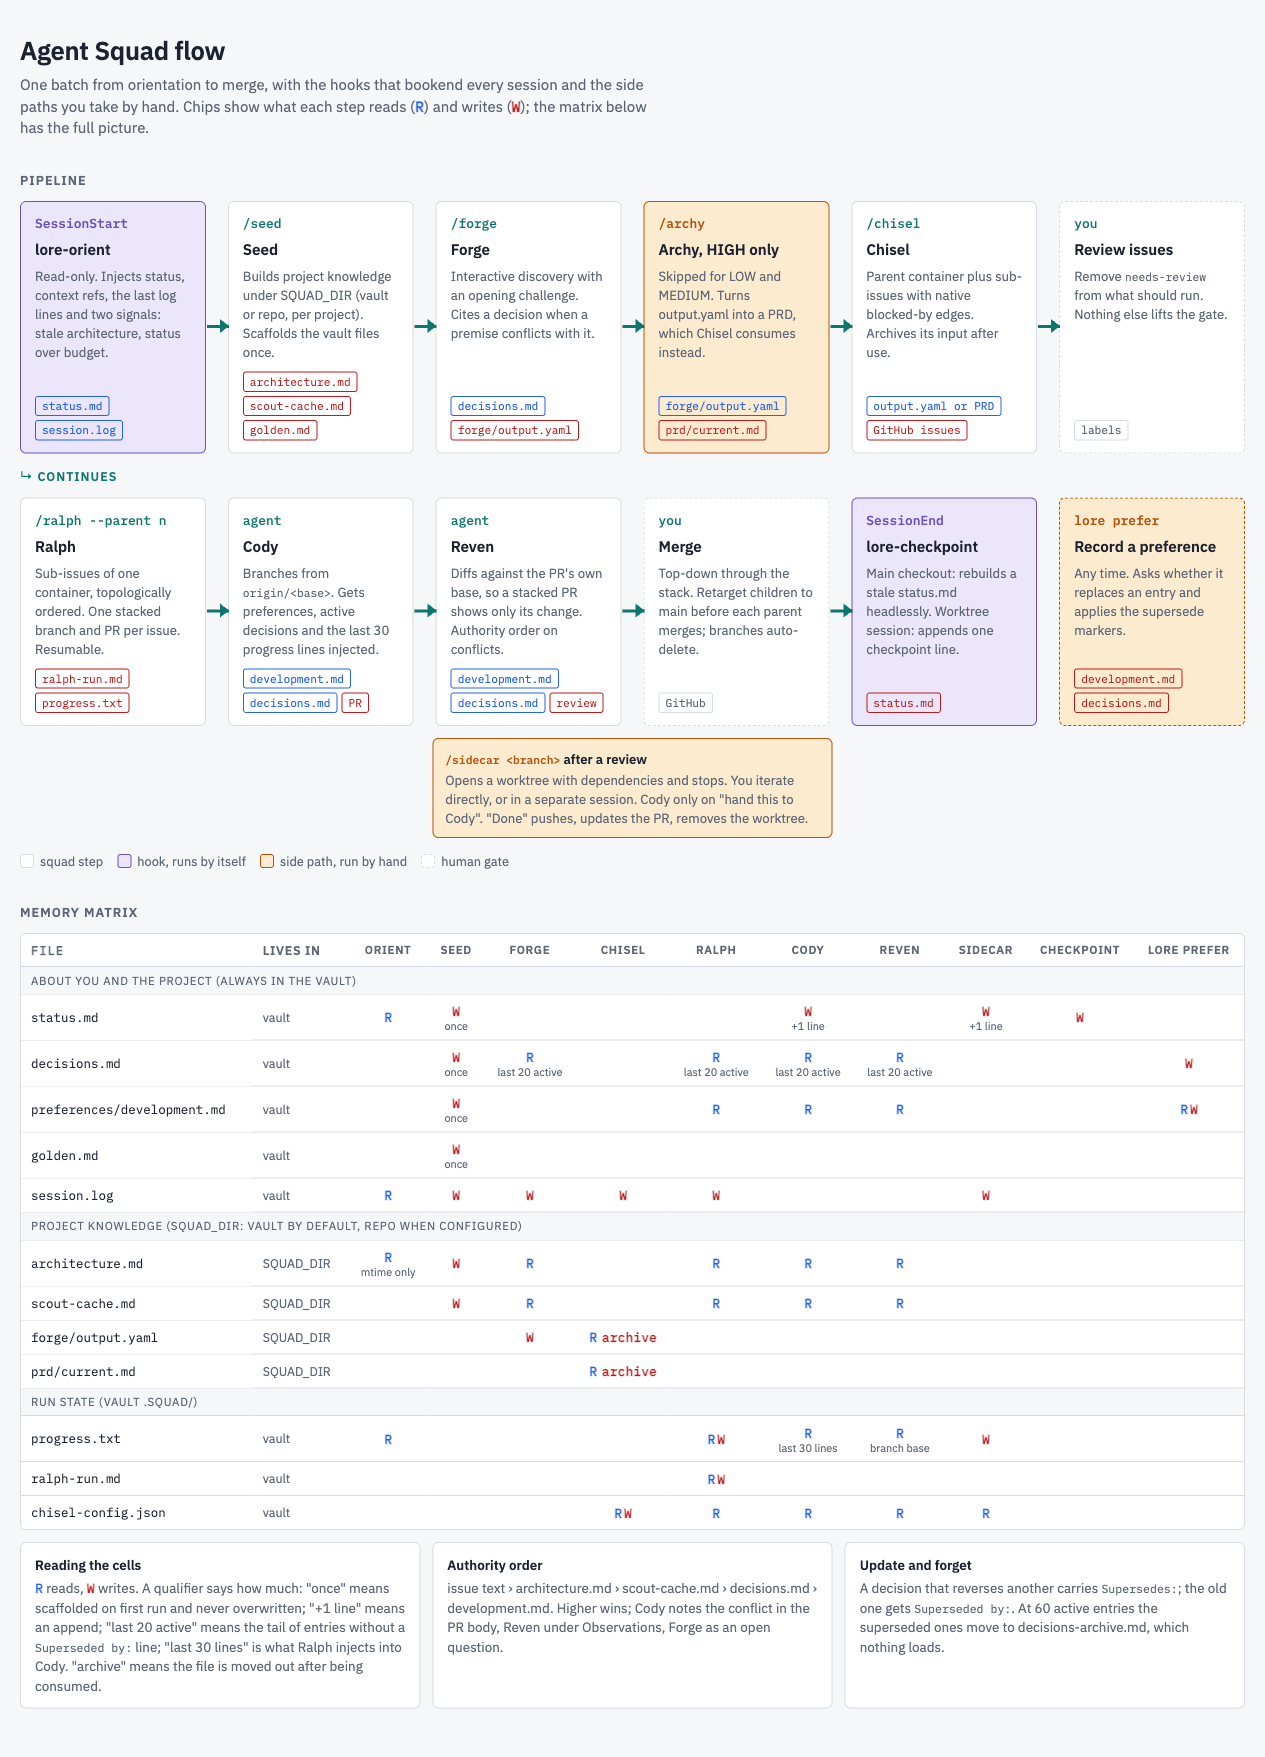
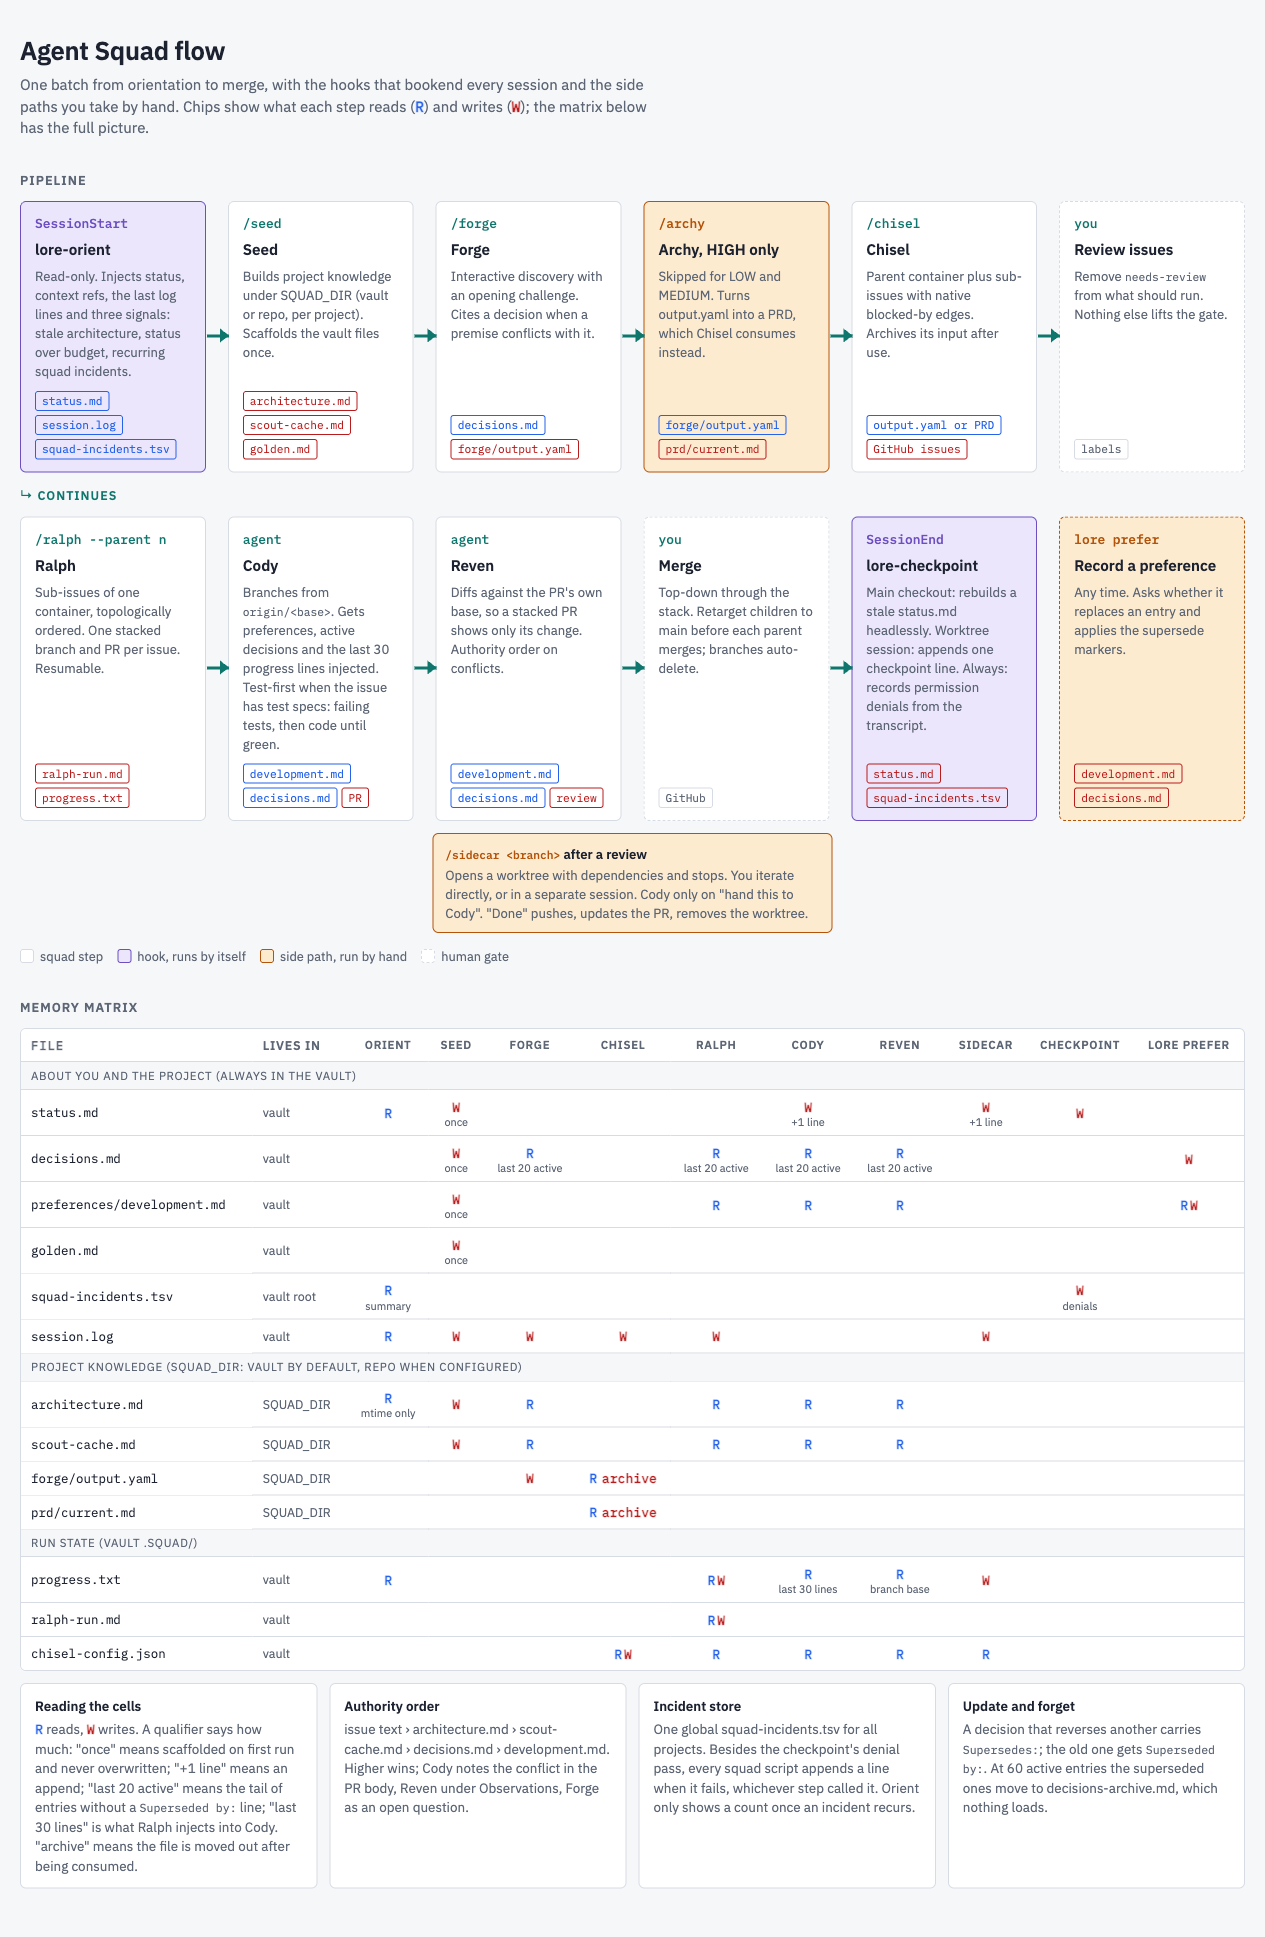
docs: flow page covers incident store and test-first Cody
Adds the recurring-incidents signal to lore-orient, the transcript
denial pass to lore-checkpoint, test-first to Cody (#238), and a
squad-incidents.tsv row plus note to the memory matrix (#241-#244).
Re-renders flow.png.

diff --git a/docs/flow.html b/docs/flow.html
@@ -127,8 +127,8 @@
     <div class="node hook">
       <span class="cmd">SessionStart</span>
       <h3>lore-orient</h3>
-      <p>Read-only. Injects status, context refs, the last log lines and two signals: stale architecture, status over budget.</p>
-      <div class="chips"><span class="chip r">status.md</span><span class="chip r">session.log</span></div>
+      <p>Read-only. Injects status, context refs, the last log lines and three signals: stale architecture, status over budget, recurring squad incidents.</p>
+      <div class="chips"><span class="chip r">status.md</span><span class="chip r">session.log</span><span class="chip r">squad-incidents.tsv</span></div>
     </div>
     <div class="node">
       <span class="cmd">/seed</span>
@@ -172,7 +172,7 @@
     <div class="node">
       <span class="cmd">agent</span>
       <h3>Cody</h3>
-      <p>Branches from <code>origin/&lt;base&gt;</code>. Gets preferences, active decisions and the last 30 progress lines injected.</p>
+      <p>Branches from <code>origin/&lt;base&gt;</code>. Gets preferences, active decisions and the last 30 progress lines injected. Test-first when the issue has test specs: failing tests, then code until green.</p>
       <div class="chips"><span class="chip r">development.md</span><span class="chip r">decisions.md</span><span class="chip w">PR</span></div>
     </div>
     <div class="node">
@@ -190,8 +190,8 @@
     <div class="node hook">
       <span class="cmd">SessionEnd</span>
       <h3>lore-checkpoint</h3>
-      <p>Main checkout: rebuilds a stale status.md headlessly. Worktree session: appends one checkpoint line.</p>
-      <div class="chips"><span class="chip w">status.md</span></div>
+      <p>Main checkout: rebuilds a stale status.md headlessly. Worktree session: appends one checkpoint line. Always: records permission denials from the transcript.</p>
+      <div class="chips"><span class="chip w">status.md</span><span class="chip w">squad-incidents.tsv</span></div>
     </div>
     <div class="node side anytime">
       <span class="cmd">lore prefer</span>
@@ -227,6 +227,7 @@
         <tr><td>decisions.md</td><td>vault</td><td></td><td class="W">W <small>once</small></td><td class="R">R <small>last 20 active</small></td><td></td><td class="R">R <small>last 20 active</small></td><td class="R">R <small>last 20 active</small></td><td class="R">R <small>last 20 active</small></td><td></td><td></td><td class="W">W</td></tr>
         <tr><td>preferences/development.md</td><td>vault</td><td></td><td class="W">W <small>once</small></td><td></td><td></td><td class="R">R</td><td class="R">R</td><td class="R">R</td><td></td><td></td><td class="RW"><span class="R">R</span><span class="W">W</span></td></tr>
         <tr><td>golden.md</td><td>vault</td><td></td><td class="W">W <small>once</small></td><td></td><td></td><td></td><td></td><td></td><td></td><td></td><td></td></tr>
+        <tr><td>squad-incidents.tsv</td><td>vault root</td><td class="R">R <small>summary</small></td><td></td><td></td><td></td><td></td><td></td><td></td><td></td><td class="W">W <small>denials</small></td><td></td></tr>
         <tr><td>session.log</td><td>vault</td><td class="R">R</td><td class="W">W</td><td class="W">W</td><td class="W">W</td><td class="W">W</td><td></td><td></td><td class="W">W</td><td></td><td></td></tr>
         <tr class="group"><td colspan="12">project knowledge (SQUAD_DIR: vault by default, repo when configured)</td></tr>
         <tr><td>architecture.md</td><td>SQUAD_DIR</td><td class="R">R <small>mtime only</small></td><td class="W">W</td><td class="R">R</td><td></td><td class="R">R</td><td class="R">R</td><td class="R">R</td><td></td><td></td><td></td></tr>
@@ -243,6 +244,7 @@
   <div class="notes">
     <div class="note"><b>Reading the cells</b><p><span class="R">R</span> reads, <span class="W">W</span> writes. A qualifier says how much: "once" means scaffolded on first run and never overwritten; "+1 line" means an append; "last 20 active" means the tail of entries without a <code>Superseded by:</code> line; "last 30 lines" is what Ralph injects into Cody. "archive" means the file is moved out after being consumed.</p></div>
     <div class="note"><b>Authority order</b><p>issue text › architecture.md › scout-cache.md › decisions.md › development.md. Higher wins; Cody notes the conflict in the PR body, Reven under Observations, Forge as an open question.</p></div>
+    <div class="note"><b>Incident store</b><p>One global squad-incidents.tsv for all projects. Besides the checkpoint's denial pass, every squad script appends a line when it fails, whichever step called it. Orient only shows a count once an incident recurs.</p></div>
     <div class="note"><b>Update and forget</b><p>A decision that reverses another carries <code>Supersedes:</code>; the old one gets <code>Superseded by:</code>. At 60 active entries the superseded ones move to decisions-archive.md, which nothing loads.</p></div>
   </div>
 </div>
